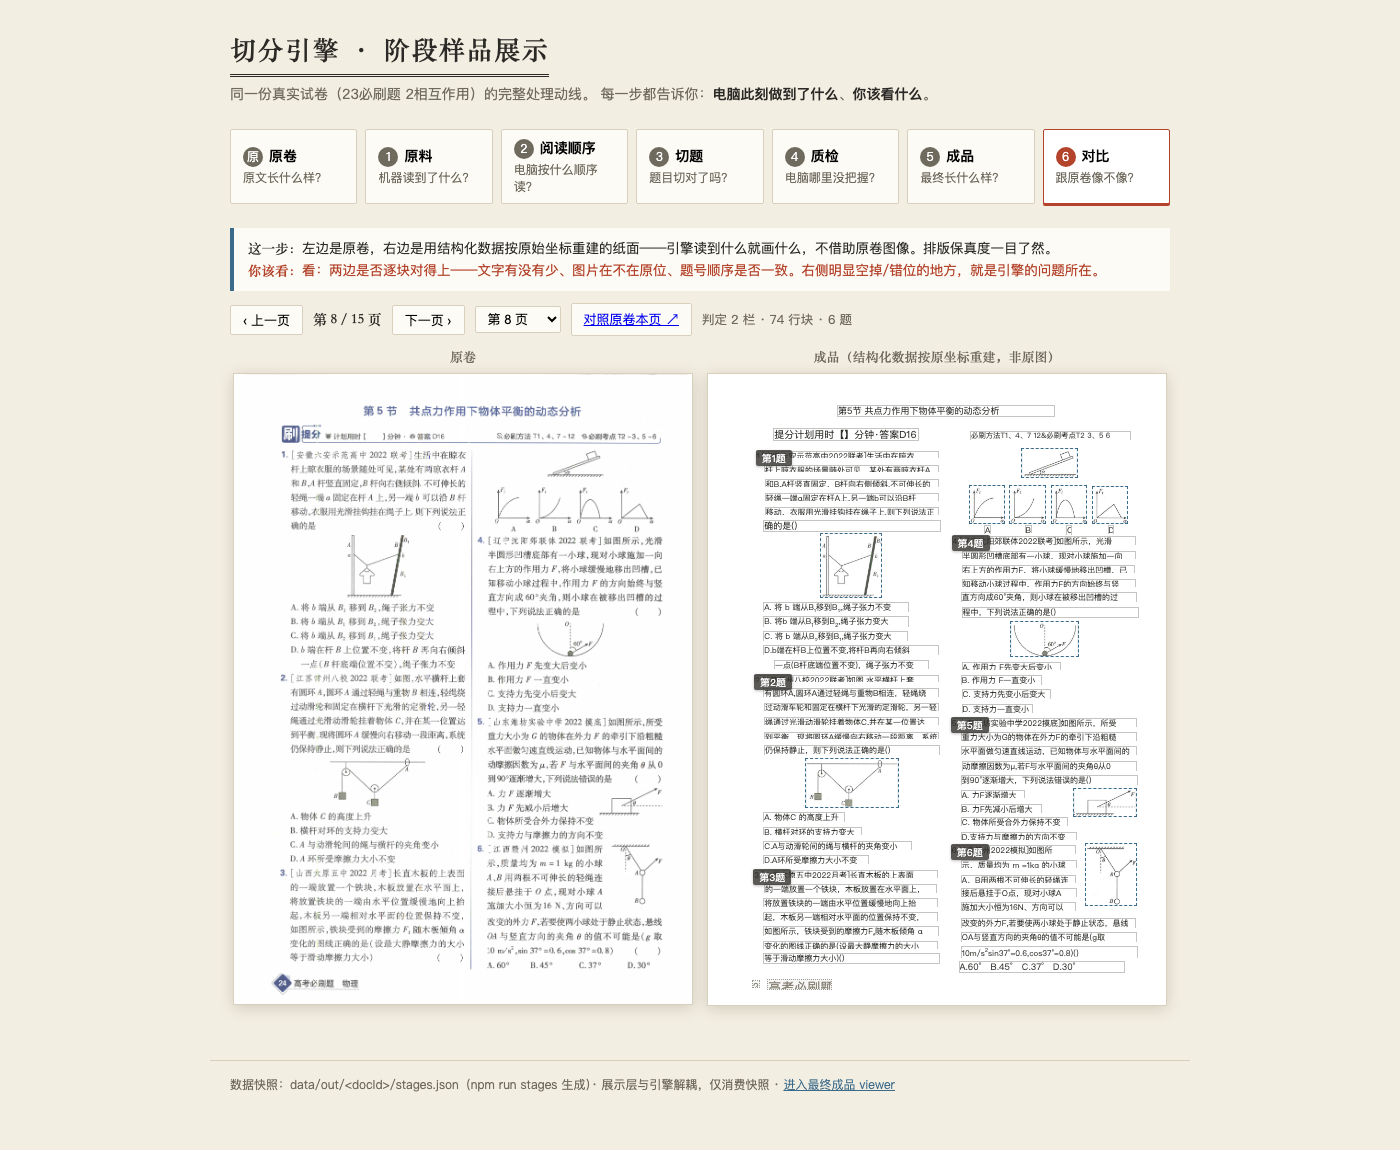
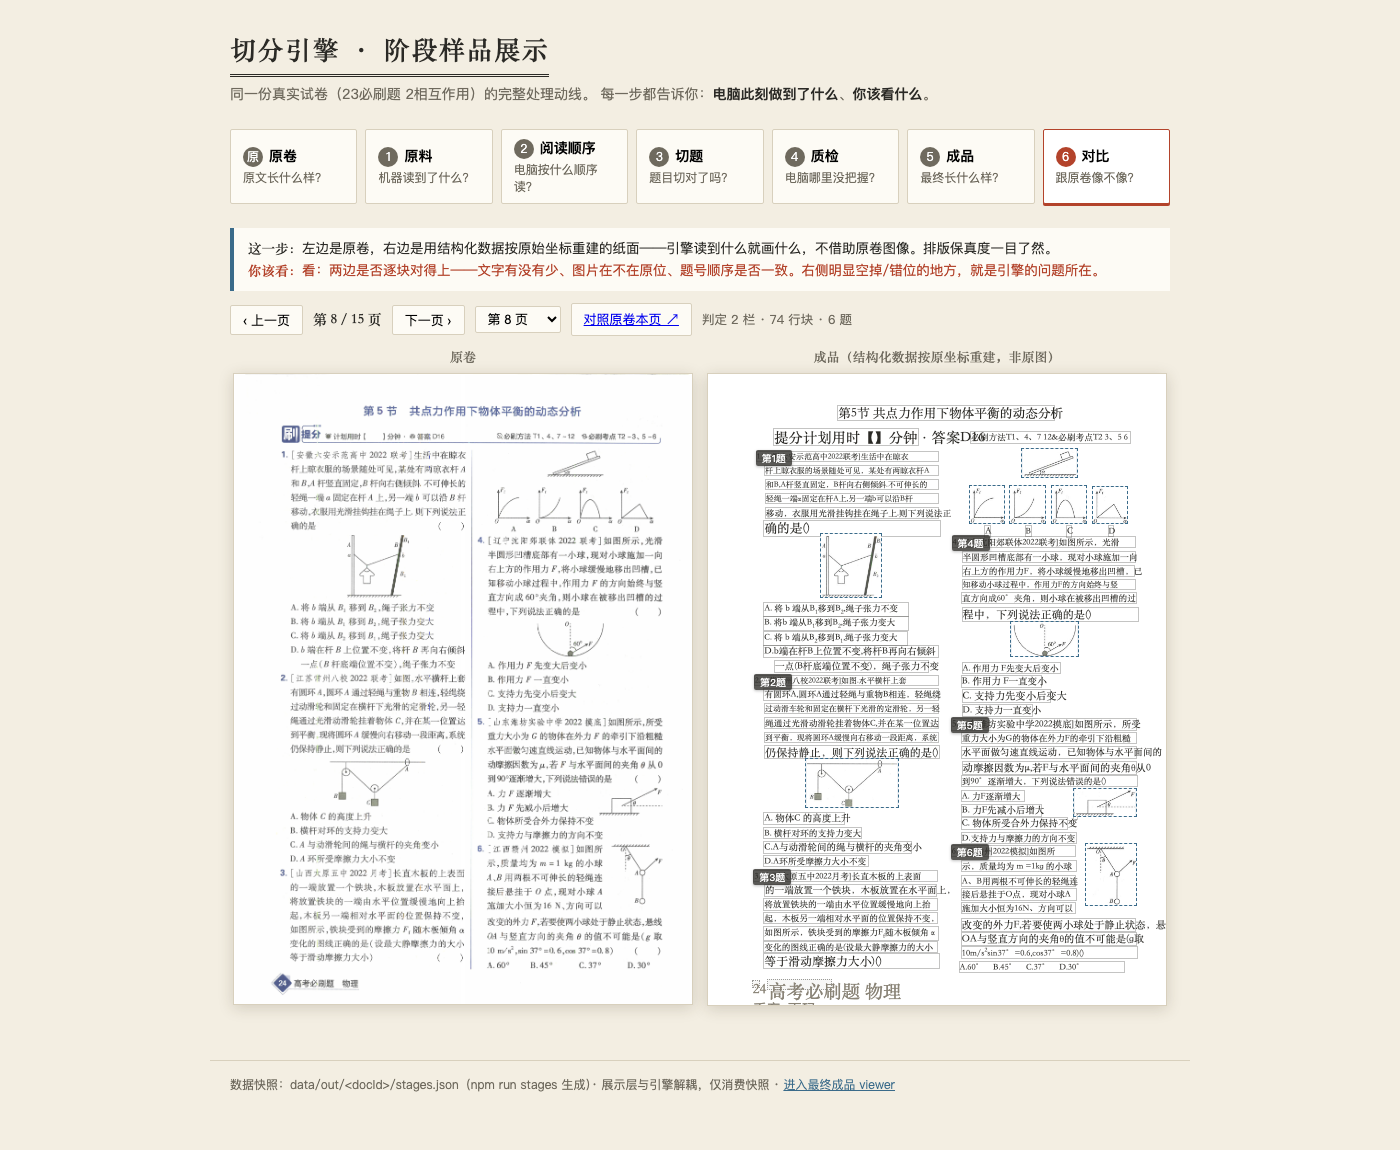
docs: 字号保真验收——15 页逐页审板 + F1–F7 与被推翻的旧前提落库
- 重拍 15 页对比截图（pages/compare-p0..14.png）与阶段 1/2/3 代表页，时间戳晚于代码改动。
- docs/design/stages-review.md 追加「七轮」：F1–F7 证据、被推翻的旧前提、15 页逐页结论表
  （①字号/②碰撞/③垂直/④EM SPACE/⑤分式/⑥裁切）、.blk overflow 去留结论、残留问题 R1–R5。
- docs/DECISIONS.md 追加 §18：定案系数 1.03 及测量依据（原卷页图墨迹二值化→墨迹包围盒→
  墨迹宽/全角字数，data/out/ink-groundtruth.md）、被推翻的旧前提、判据分级、审计可判块口径与基线数字。
- 审板如实记录三类真实缺陷（未修，交回裁定）：阶段 1 段级块字号失控（最大 172.6px）、
  对比模式丢弃块 canvasW 口径混用致字号过大（竖排侧栏 119.5px 溢出）、行级块横向溢出压字。
- 保留 .blk{overflow:visible}（G1：裁切=静默丢内容）；未改 src/ 与快照契约，未调系数/区间/权重表。
- npm run check 全绿（101 例；字号保真度可判块 198 · 中位 ratio 1.0199）。

Changed region(s): [[0.5221, 0.5174, 0.8293, 0.8826], [0.5529, 0.3348, 0.7986, 0.487], [0.6757, 0.4565, 0.8293, 0.5478]]

diff --git a/docs/design/stages-review.md b/docs/design/stages-review.md
@@ -209,3 +209,97 @@
 三轮由用户对比反馈直接驱动 4 项引擎算法修复（顿号守卫/同键合并/前向缺键/评审文案）。
 `npm run check` 72/72 全绿；真实 15 页口径：85 题、83 ok、2 needs_review 全部真问题、诊断 4 条、
 公式噪声基线 249/70/35；展示渲染器全量清点 1112 块零残留。
+
+## 七轮（重建字号保真：验收 + 15 页逐页审板，2026-10-08）
+
+用户指出对比模式「右侧重建文字比原卷小 30%、填不满框」。本轮把 stage 6 的字号系数从 `0.72`
+修正为 `1.03`（修正因子 1.43），并把该判据做成自动审计项；本节的职责是**验收与落库**：
+逐页视觉审板 + 把证据链与「被推翻的旧前提」写进文档。
+
+### 已定案事实 F1–F7（数值权威：`data/out/ink-groundtruth.md`）
+
+测量方法：**原卷页图 PNG → 逐块 bbox 外扩 6px 后二值化（灰度<128 为墨）→ 扫出真实墨迹包围盒
+→ 换算回 pt（scale = 图 px 宽 / 596pt）→ 纯 CJK 正文行取「墨迹宽 / 全角字数」**（n=125，15 页全覆盖）。
+
+| # | 事实 | 证据 |
+|---|------|------|
+| F1 | 原卷行 bbox **紧贴墨迹**：横向内边距合计 1.58pt（行宽 0.7%），纵向 0.22pt；阈值 100/128/160 下稳定 | ink-groundtruth M1 |
+| F2 | 原卷正文真实字号 `S_ink = 墨迹宽 / 全角字数`，中位 **11.29pt**（`bboxW/N` 仅大 0.74%，再证 bbox 紧） | ink-groundtruth M2 |
+| F3 | 旧 `fontPx = hPx × 0.72` 等价 `font_pt = 0.72 × bboxH_pt`；对 11pt 正文行只给 **7.92pt** → **偏小 30.0%** | ink-groundtruth M3 |
+| F4 | **定案系数 `c = 1.03`**（`fontPx = hPx × 1.03`），修正因子 1.43；区间 1.02–1.04 | ink-groundtruth M3 |
+| F5 | 垂直不成问题：按 F4 渲染，浏览器整行墨迹高 0.961em vs 原卷 0.938em，**只高 2.3%** → 宽高可同时对齐 | ink-groundtruth M5 |
+| F6 | 按 F4，**纯 CJK 正文行**渲染宽恒 < bbox 宽 → 不新增块间溢出（此前 32 对溢出源于系数取 1.475，比真值大 3%） | ink-groundtruth (e) |
+| F7 | 字号存在离散层级（正文 11.3pt / 栏头 ~15pt / 章节标题 16.6–21.3pt），**逐行 bboxH 推导已自动复现，无需层级表** | ink-groundtruth M4 |
+
+### 被推翻的旧前提（必须记录）
+
+上一轮未提交代码的注释写着「浏览器字体（宋体）比原卷印刷体**宽**，文本会**超出** bbox，故不裁切」。
+**实测否定**：CJK 全角在印刷体与 Songti SC 中都精确 1em（浏览器行墨迹宽/字 = 0.994em，度量误差为 0）；
+真实缺陷是字号**偏小 30%**、文字**填不满** bbox。**方向搞反了**——所以系数是**放大**（0.72 → 1.03），不是缩字。
+
+### 逐页视觉审板（15 页，每页 6 项）
+
+对照方式：左 = 原卷页图，右 = 结构化重建（`?stage=6&page=N` 直达）。判据：① 字号是否与原卷肉眼一致；
+② 是否出现新的块间碰撞；③ 垂直基线是否整体偏高/偏低；④ 选项分隔（EM SPACE）是否正常；
+⑤ 竖排分式（`.frac`/`.sqrt`）是否正常；⑥ 是否有文字被裁切（G1）。
+
+「碰撞」一列用 DOM 实测（文字真实范围 `Range.getBoundingClientRect()` × 其它块矩形，交叠面积 > 9px²）计数与最大面积。
+
+| 页 | ① 字号 | ② 块间碰撞 | ③ 垂直基线 | ④ EM SPACE | ⑤ 分式 | ⑥ 裁切 |
+|----|--------|-----------|-----------|-----------|--------|--------|
+| 1 | ✅ 与原卷相当 | ❌ 丢弃块：竖排侧栏「第二章相互作用」119.5px 溢出栏外；页脚引文压页码 | ✅ | ✅ | ✅ | ✅ 无 |
+| 2 | ✅ | ⚠ 3 对（与空/图片块，≤157px²）；页眉「基础计划用时…答案D11」文字超框 80.9px | ✅ | ✅ `A.0.20 B.0.30 / C.0.35 D.0.45` 分隔清晰 | ✅ 第 11 题 `\frac{mg}{k₁+k₂}` 等竖排正常 | ✅ 无 |
+| 3 | ✅ | ❌ 丢弃页眉「刷基础」压题干（766px²） | ✅ | ✅ | ✅ | ✅ 无 |
+| 4 | ✅ | ⚠ 1 对（39px²） | ✅ | ✅ | ✅ | ✅ 无 |
+| 5 | ✅ | ❌ 丢弃「刷提分」压题干（766px²）；常规「必刷知识T1 3、5 6…」压选项（454px²） | ✅ | ✅ | ✅ | ✅ 无 |
+| 6 | ✅ | ⚠ 1 对（109px²） | ✅ | ✅ | ✅ | ✅ 无 |
+| 7 | ✅ | ❌ 丢弃「刷提分」压题干（799px²）；「必刷方法T1、3、5…」压题干（670px²） | ✅ | ✅ | ✅ | ✅ 无 |
+| 8 | ✅ | ⚠ 1 对（124px²） | ✅ | ✅ | ✅ | ✅ 无 |
+| 9 | ✅ | ❌ 常规行互压（970 / 552px²） | ✅ | ✅ | ✅ | ✅ 无 |
+| 10 | ✅ | ❌ 标题「专题 连接体动态平衡问题」与邻行互压（657px²，肉眼可见） | ✅ | ✅ | ✅ | ✅ 无 |
+| 11 | ✅ | ❌ 10 对，最大 1818px² | ✅ | ✅ | ✅ | ✅ 无 |
+| 12 | ✅ | ❌ 8 对，最大 1188px² | ✅ | ✅ | ✅ | ✅ 无 |
+| 13 | ✅ | ⚠ 1 对（65px²） | ✅ | ✅ | ✅ | ✅ 无 |
+| 14 | ✅ | ❌ 丢弃「刷真题」压题干（835px²） | ✅ | ✅ | ✅ | ✅ 无 |
+| 15 | ✅ | ❌ 9 对，最大 375px² | ✅ | ✅ | ✅ | ✅ 无 |
+
+- **① 字号**：15 页**全部通过**——这是本轮修复的主目标。审计口径可判块 198 个、中位 ratio **1.0199**
+  （判定区间 `[0.93, 1.07]`），基线对照 0.72 → 1.4590 报红；并排肉眼观察右栏文字高度/宽度与原卷相当。
+- **② 碰撞**：**未通过**。绝大多数碰撞**不是**常规题块本身，而是
+  (a) **对比模式的丢弃块**（`renderDiscardedInto` 本轮从「宽高双适配」改为「仅按行高」，且硬编码
+  `CANVAS_W=760`，而对比栏宽实为 `PANE_W=460`，F10 明令勿混用 → 丢弃块字号偏大 760/460≈1.65×；
+  竖排侧栏块 bbox 为 13×91pt，bboxH 是「文字长度方向」被当成行高 → 字号 119.5px，横向溢出栏外）；
+  (b) 少数**常规行级块**文字真实宽度超过 bbox（混合 ASCII/数字行，如「基础计划用时…答案D11」超 80.9px），
+  原因是本轮移除了原来的「按宽高双适配字号」`fitFontSize`，F6 的「渲染宽恒 < bbox 宽」只对**纯 CJK 行**成立。
+- **③ 垂直基线**：无整体偏高/偏低。行框（`line-height:1.15 × 字号`）比 bbox 高约 4–6px，文字大致顶对齐、
+  下沿略溢出；F5 的 +2.3% 在纯 CJK 行成立。
+- **④ EM SPACE**：正常。第 2 页 `A.0.20 B.0.30 / C.0.35 D.0.45` 分隔清晰（放大图 `data/out/crop/p1-opts.png`）。
+- **⑤ 竖排分式**：正常。第 2 页第 11 题 `\frac` 分子/分母/横线齐全（放大图 `data/out/crop/p1-frac.png`）。
+- **⑥ 裁切**：无。`.blk` 与 `.txt` 均为 `overflow: visible`，文字不被裁切。
+
+### 阶段 1/2/3 代表页
+
+| 截图 | 结论 |
+|------|------|
+| `stage1-raw-p0.png` | ❌ **严重回归**：段级块字号失控（最大 **172.6px**；文字真实宽度最大 **24878px** vs 框 313px），整页文字巨大、互相压叠（45 对碰撞，最大 35666px²）。根因同 ②(a)：`renderRaw` 的 `fitFontSize`（宽高双适配）被 `fontForBlock`（仅行高）取代，而原料块是**段级块**，其 bboxH 是**整段高度**而非行高 |
+| `stage2-order-p0.png` | ✅ 行级块字号正常、可读；仅 2 对轻微碰撞（≤441px²，与空/图片块）；页眉「基础计划用时…」文字超框 132.6px（未压到其它块） |
+| `stage3-seg-p0.png` | ✅ 同上；题号牌、蓝/灰/红框、跨栏挂牌均正常 |
+
+### `.blk { overflow: visible }` 的去留结论
+
+**保留 `visible`**。理由：
+1. G1 明令「裁切文字 = 静默丢内容」，改成 `hidden` 会把本轮观察到的溢出**变成看不见的静默截断**，方向更错；
+2. 本轮审板观察到的溢出（②(a)(b)、阶段 1）**不是 `overflow: visible` 造成的**，而是字号推算/适配逻辑
+   （`fitFontSize` → `fontForBlock`、canvasW 口径混用、竖排块 bboxH 语义）造成的；`visible` 只是让问题**可见**，
+   正是自反馈环需要的。
+3. 因此：**保留 `visible`，溢出问题交回裁定**（见下节）。
+
+### 未能解决的残留问题（如实记录，本轮不修）
+
+| # | 问题 | 现象 / 证据 | 为什么本轮不修 |
+|---|------|-------------|----------------|
+| R1 | **阶段 1 段级块字号失控** | 字号最大 172.6px、文字宽 24878px vs 框 313px；`data/out/crop` 与 `stage1-raw-p0.png`；对照旧图 `data/out/old-stage1.png`（正常） | 属渲染器字号适配逻辑，非「字号保真」本任务范围；改动面大，需单独定案 |
+| R2 | **对比模式丢弃块字号过大 / 口径混用** | `renderDiscardedInto` 硬编码 `CANVAS_W=760`（栏宽 460）；竖排侧栏块字号 119.5px、溢出栏外；页眉家具行压标题/题干（p2/p4/p6/p13） | 需决定「丢弃块是否也要保真字号」与竖排块如何处理；改 `stages.js` 属再改一轮，交回裁定 |
+| R3 | **行级块文字横向溢出 / 行框交叠 → 跨块跨栏压字** | 混合 ASCII 行文字超框最多 ~132px（阶段 2/3）、~80px（对比模式）；15 页中 11 页检出碰撞 | 是否恢复宽度适配（`fitFontSize` 类）与 F6 的立论冲突，需先定案；不得为「让审板通过」而调系数/区间/权重表 |
+| R4 | **竖排（旋转）文本块无适配** | 侧栏「第二章相互作用」bbox 13×91pt，bboxH 是文字长度方向 | 需要「旋转文本」识别或按 bbox 宽推字号，属新逻辑 |
+| R5 | **审计「可判块」对上述溢出不可见** | 可判块口径**排除含 ASCII 字母数字的块**，而溢出主要发生在含 ASCII 的行；丢弃块不参与审计 | 判据口径问题，需单独定案（是否把「文字溢出 bbox」做成新判据项） |
